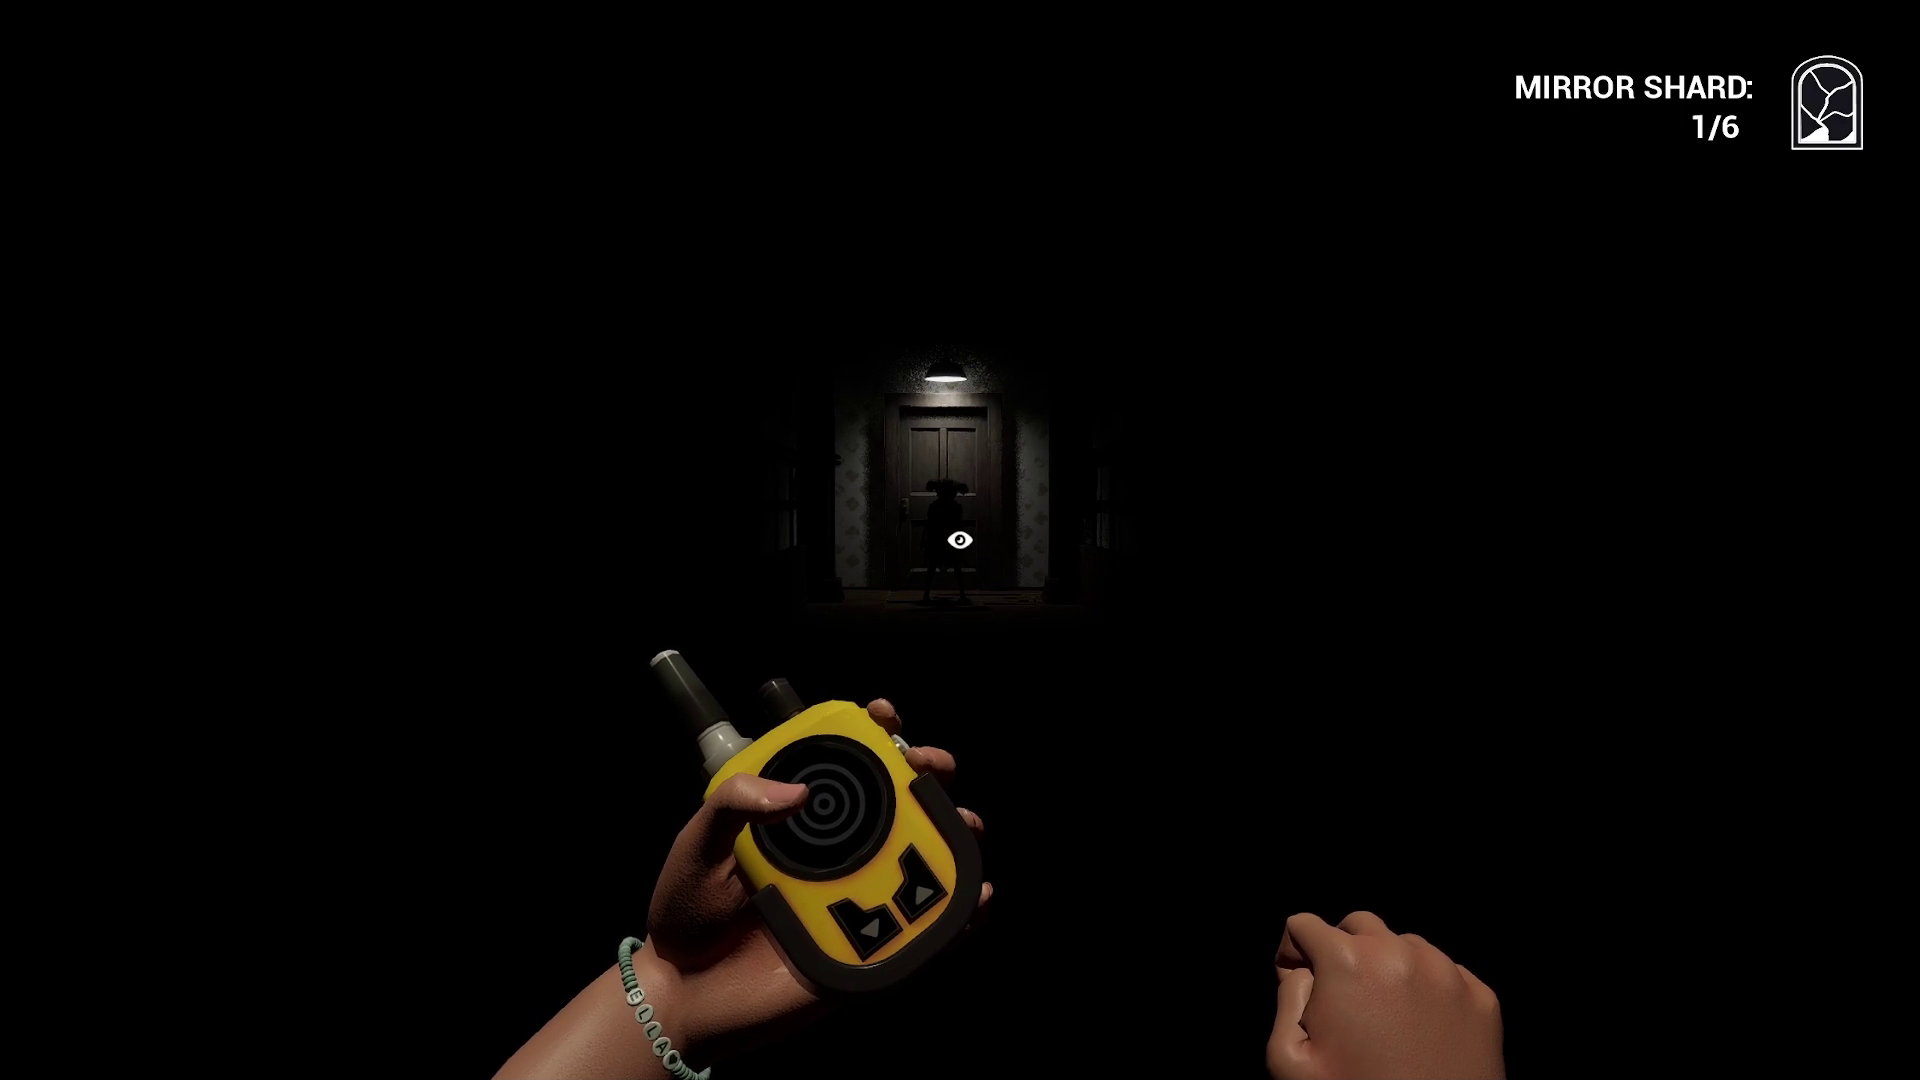
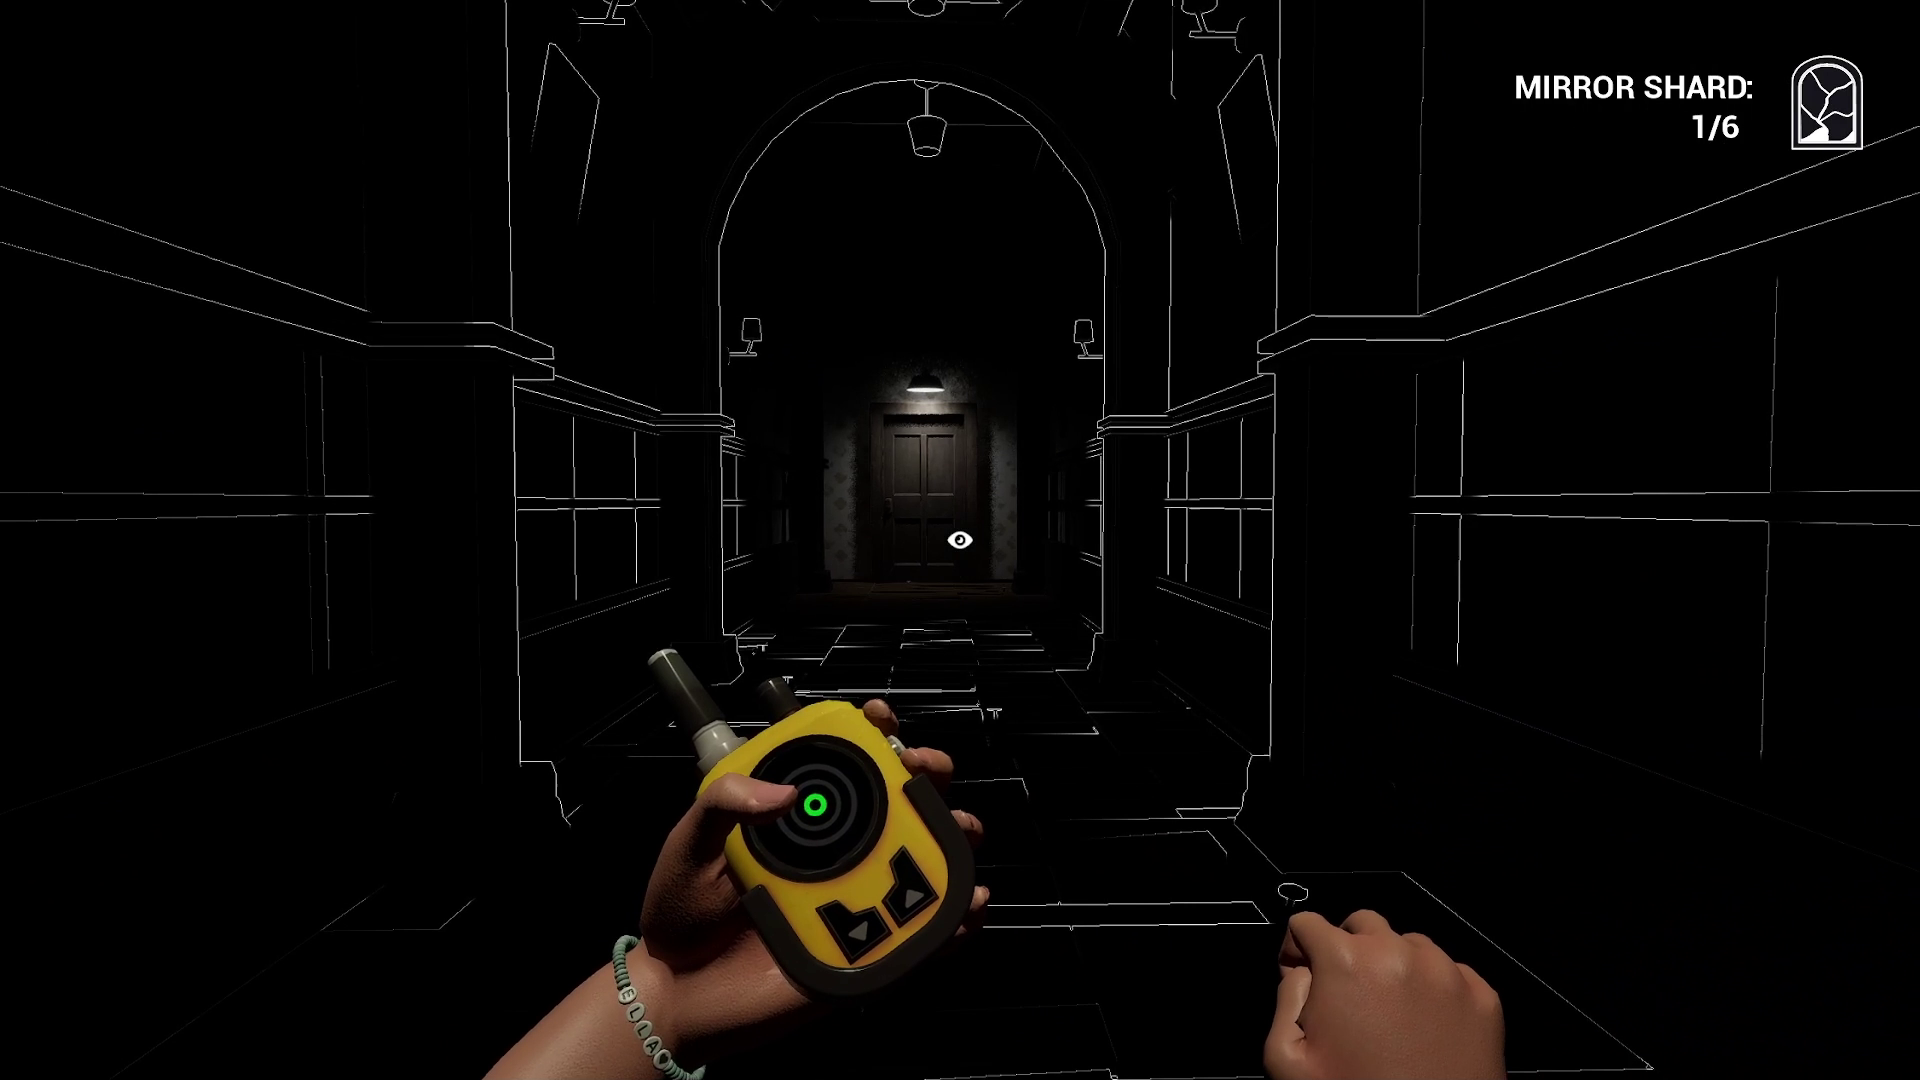
Update layout, screenshots and site copy
Adjust site visuals and copy across CSS and HTML; also update one screenshot image. CSS: enlarge and reposition the echolocation ring container and individual ring sizes, increase hero/content max-widths, simplify the screenshots grid to a uniform 2x2 layout and add an aspect-ratio for shots, and tweak responsive rules. HTML: rewrite multiple marketing lines (tagline, game description, mechanics/features, about text, CTAs and footer), simplify screenshot figure markup and captions, and increment the copyright year. Binary: replace img/screenshot-2.png with an updated image.

diff --git a/index.html b/index.html
@@ -148,7 +148,7 @@
         </h1>
 
         <p class="hero-tagline reveal-fade" data-delay="340">
-          See with sound.<br>Fear the silence.
+          See with echo.<br>Fear the silence.
         </p>
 
         <div class="hero-actions reveal-fade" data-delay="500">
@@ -247,12 +247,9 @@
 
           <div class="game-description reveal-fade" data-delay="220">
             <p>
-              Stella is gone — but her echoes remain. Navigate shattered memories
-              through environments that respond only to sound. In a world stripped
-              of light, you are not hunting the darkness.
-            </p>
+              Echoes of Stella is a first-person horror adventure built around a unique echolocation device. Use it to navigate a distorted mirror world, revealing your surroundings in brief moments of clarity. Time your scans carefully, or risk exposing yourself.</p>
             <p>
-              The darkness is hunting <em>you</em>.
+              See the unseen. Or be <em>found.</em>.
             </p>
           </div>
 
@@ -320,27 +317,30 @@
           </div>
 
           <h2 id="mechanic-heading" class="mechanic-title reveal-slide" data-delay="100">
-            Navigate<br>by <em>Sound</em>
+            Unique<br> <em>Echolocation</em>
           </h2>
 
           <p class="mechanic-body reveal-fade" data-delay="200">
-            Echoes of Stella strips away sight entirely and replaces it with echolocation.
-            Sound pulses radiate outward, illuminating hidden geometry, lurking threats,
-            and fragments of Stella's story — but only for a heartbeat.
+            Trapped in total darkness, your only hope is a device that translates sound into sight. 
+            Every scan reveals the world around you, shaping paths out of the void, but in this distorted mirror world, time your scans carefully, or risk exposing yourself.
           </p>
 
           <ul class="mechanic-features reveal-fade" data-delay="300">
             <li>
               <span class="feature-dash" aria-hidden="true">—</span>
-              Procedural audio visualization reacts to every surface material
+              Navigate by Echolocation: Use a unique echolocation device to map your surroundings. Every scan provides a brief moment of clarity in a world of absolute shadow.
             </li>
             <li>
               <span class="feature-dash" aria-hidden="true">—</span>
-              Sound attracts — and reveals — what hunts you in the dark
+              The Cost of Sight: Every pulse is a signal. Balance the desperate need to see with the necessity of silence, timing your scans carefully to avoid revealing your location to the things lurking in the dark.
             </li>
             <li>
               <span class="feature-dash" aria-hidden="true">—</span>
-              Tension through silence as much as through noise
+              Something is Listening: Stella, a corrupted reflection of the past, is drawn to your signals. She is hunting you, determined to keep you in her world forever.
+            </li>
+            <li>
+              <span class="feature-dash" aria-hidden="true">—</span>
+              Uncover Your Identity: Explore the environment to find shattered mirror shards. Piece them together to reveal the truth of who you are and why you’re here.
             </li>
           </ul>
         </div>
@@ -373,40 +373,32 @@
 
         <div class="screenshots-grid" role="list" aria-label="Game screenshots">
 
-          <!-- Shot 1: wide feature shot (spans 2 columns) -->
-          <!-- TO UPDATE: Replace with your screenshot -->
-          <figure class="shot shot--wide reveal-fade" role="listitem" data-delay="0">
+          <figure class="shot reveal-fade" role="listitem" data-delay="0">
             <img src="./img/screenshot-1.png"
                  alt="Echoes of Stella — echolocation pulse illuminating a vast underground cathedral"
                  loading="lazy">
-            <figcaption>The Abyss</figcaption>
+            <figcaption>The Echolocation Device</figcaption>
           </figure>
 
-          <!-- Shot 2: tall portrait shot (spans 2 rows) -->
-          <!-- TO UPDATE: Replace with your screenshot -->
-          <figure class="shot shot--tall reveal-fade" role="listitem" data-delay="80">
+          <figure class="shot reveal-fade" role="listitem" data-delay="80">
             <img src="./img/screenshot-2.png"
                  alt="Echoes of Stella — a shadowed pursuer revealed by the leading edge of a sound wave"
                  loading="lazy">
-            <figcaption>The Pursuer</figcaption>
+            <figcaption>The Echolocation</figcaption>
           </figure>
 
-          <!-- Shot 3: small square -->
-          <!-- TO UPDATE: Replace with your screenshot -->
-          <figure class="shot shot--small reveal-fade" role="listitem" data-delay="140">
+          <figure class="shot reveal-fade" role="listitem" data-delay="140">
             <img src="./img/screenshot-3.png"
                  alt="Echoes of Stella — memory fragment orbs suspended in a pitch-black corridor"
                  loading="lazy">
             <figcaption>Memory Fragments</figcaption>
           </figure>
 
-          <!-- Shot 4: small square -->
-          <!-- TO UPDATE: Replace with your screenshot -->
-          <figure class="shot shot--small reveal-fade" role="listitem" data-delay="200">
+          <figure class="shot reveal-fade" role="listitem" data-delay="200">
             <img src="./img/screenshot-4.png"
                  alt="Echoes of Stella — the opening room, total darkness before the first echo"
                  loading="lazy">
-            <figcaption>The Beginning</figcaption>
+            <figcaption>The Mirror</figcaption>
           </figure>
 
         </div>
@@ -446,34 +438,20 @@
           </div>
 
           <h2 id="about-heading" class="about-title reveal-slide" data-delay="100">
-            We make games<br><em>that haunt</em>
+            We make games<br><em>and we are chill</em>
           </h2>
 
           <div class="about-body reveal-fade" data-delay="200">
             <p>
-              Chill Studio is an indie game development studio dedicated to crafting
-              atmospheric horror experiences that linger long after the screen goes dark.
-              We believe the most effective horror isn't about what you see — it's about
-              what you <em>can't</em>.
-            </p>
-            <p>
-              Built on a foundation of tight design, deliberate pacing, and immersive audio
-              engineering, we create worlds that players carry with them. Echoes of Stella
-              is our debut title — a love letter to psychological horror and the fragility
-              of memory.
+              Chill Studio is an indie game development studio with <em>chill</em> and <em>supercool</em> developers.
             </p>
           </div>
 
           <!-- Headline stats -->
           <div class="about-stats reveal-fade" data-delay="320">
             <div class="about-stat">
-              <span class="about-stat-value">01</span>
+              <span class="about-stat-value">1</span>
               <span class="about-stat-label">Game in Development</span>
-            </div>
-            <div class="about-stat-divider" aria-hidden="true"></div>
-            <div class="about-stat">
-              <span class="about-stat-value">★</span>
-              <span class="about-stat-label">Futuregames Awards 2025</span>
             </div>
           </div>
         </div>
@@ -505,7 +483,7 @@
         </h2>
 
         <p class="cta-sub reveal-fade" data-delay="180">
-          Available on Steam — Demo playable now.
+          Available on Steam <br> <em>Demo playable now.</em>
         </p>
 
         <div class="cta-actions reveal-fade" data-delay="300">
@@ -535,7 +513,7 @@
           <img src="./img/ChillStudio_Logo_DarkBG.png" alt="" class="footer-logo-img" aria-hidden="true">
           <span class="footer-logo-text">CHILL<br><strong>STUDIO</strong></span>
         </a>
-        <p class="footer-tagline">We make games that haunt.</p>
+        <p class="footer-tagline">We make games and we are chill.</p>
       </div>
 
       <!-- Nav column -->
@@ -577,7 +555,7 @@
 
     <div class="footer-bottom">
       <p class="footer-legal">
-        &copy; 2025 Chill Studio. All rights reserved.
+        &copy; 2026 Chill Studio. All rights reserved.
         All trademarks referenced are properties of their respective owners.
       </p>
       <a href="https://store.steampowered.com/app/4573570/Echoes_of_Stella/?beta=0"

diff --git a/css/style.css b/css/style.css
@@ -606,11 +606,11 @@ h2 em {
 /* ── Echolocation Ring Animation ── */
 .echo-container {
   position: absolute;
-  right: 12%;
+  right: 25%;
   top: 50%;
   transform: translateY(-50%);
-  width: 400px;
-  height: 400px;
+  width: 560px;
+  height: 560px;
   display: grid;
   place-items: center;
   pointer-events: none;
@@ -624,10 +624,10 @@ h2 em {
   animation: echoRipple 4s var(--ease-in-out) infinite;
 }
 
-.echo-ring--1 { width:  80px; height:  80px; animation-delay: 0.0s; }
-.echo-ring--2 { width: 160px; height: 160px; animation-delay: 0.5s; }
-.echo-ring--3 { width: 270px; height: 270px; animation-delay: 1.0s; }
-.echo-ring--4 { width: 400px; height: 400px; animation-delay: 1.5s; }
+.echo-ring--1 { width: 110px; height: 110px; animation-delay: 0.0s; }
+.echo-ring--2 { width: 224px; height: 224px; animation-delay: 0.5s; }
+.echo-ring--3 { width: 378px; height: 378px; animation-delay: 1.0s; }
+.echo-ring--4 { width: 560px; height: 560px; animation-delay: 1.5s; }
 
 @keyframes echoRipple {
   0%   { opacity: 0;    transform: scale(0.6); }
@@ -655,7 +655,7 @@ h2 em {
   position: relative;
   z-index: 2;
   padding: 0 var(--section-px) clamp(3rem, 8vh, 6rem);
-  max-width: min(700px, 55vw);
+  max-width: min(800px, 62vw);
 }
 
 .hero-eyebrow {
@@ -686,7 +686,7 @@ h2 em {
 
 .hero-title-logo {
   display: block;
-  max-width: min(520px, 80vw);
+  max-width: min(640px, 80vw);
   height: auto;
   filter: drop-shadow(0 4px 32px rgba(0,0,0,0.8));
 }
@@ -1151,14 +1151,10 @@ h2 em {
   margin: 0 auto;
 }
 
-/* Irregular 4-zone grid — intentionally not a uniform 3-column layout */
+/* Uniform 2x2 grid */
 .screenshots-grid {
   display: grid;
-  grid-template-columns: 1.6fr 1fr;
-  grid-template-rows: auto auto;
-  grid-template-areas:
-    "wide tall"
-    "small1 small2";
+  grid-template-columns: repeat(2, 1fr);
   gap: 3px;
 }
 
@@ -1167,6 +1163,7 @@ h2 em {
   overflow: hidden;
   background-color: var(--clr-surface);
   cursor: pointer;
+  aspect-ratio: 16 / 9; /* Adjust this if your screenshots are 4:3 or another ratio */
 }
 
 .shot img {
@@ -1701,11 +1698,6 @@ h2 em {
   /* Screenshots grid — single column */
   .screenshots-grid {
     grid-template-columns: 1fr;
-    grid-template-areas:
-      "wide"
-      "tall"
-      "small1"
-      "small2";
   }
 
   .shot--wide,
